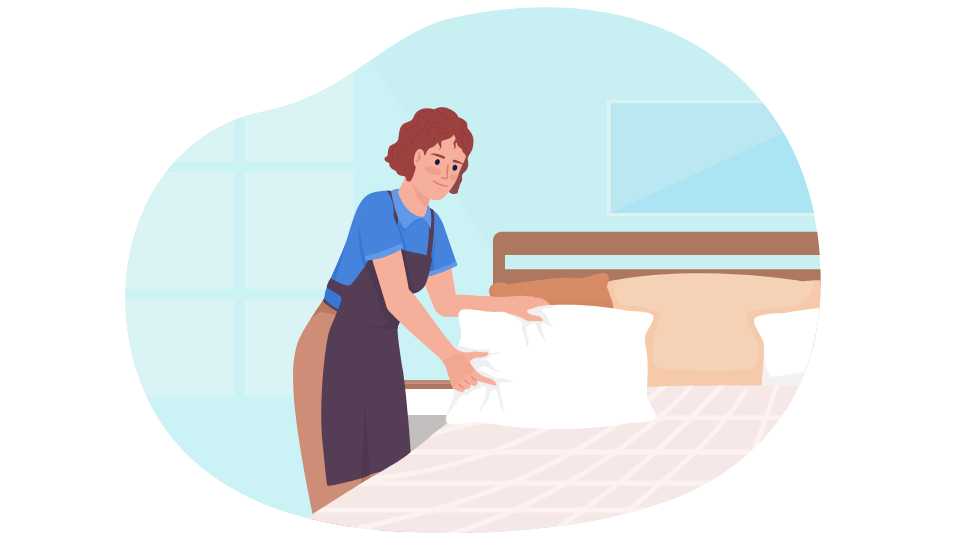
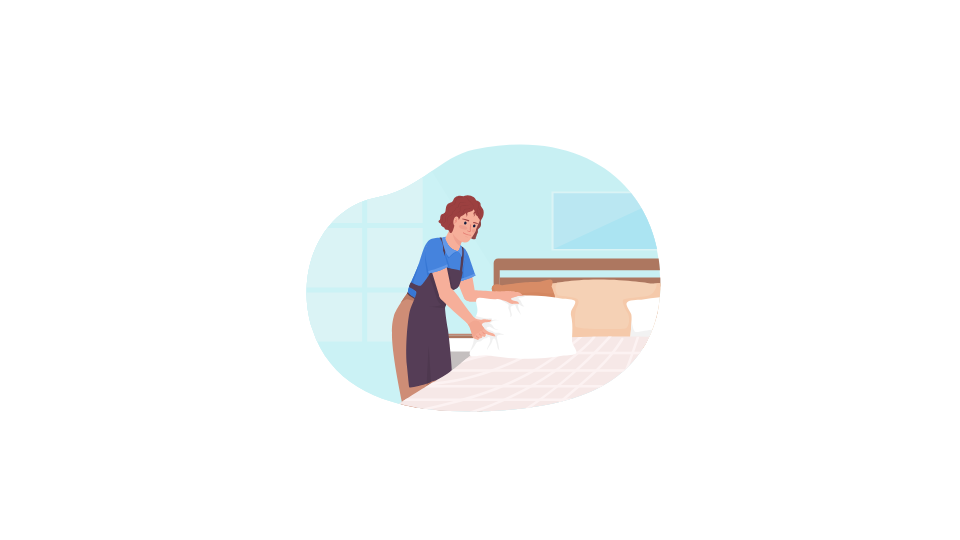
kecilin gambar

diff --git a/app/static/home.css b/app/static/home.css
@@ -1,6 +1,8 @@
 body, html {
   font-family: 'Franklin Gothic Medium', 'Arial Narrow', Arial, sans-serif;
   /* background-color: #DBAFA0; */
+  background-color: var(--bg-color);
+  color: var(--text-color);
 }
 
 @media (max-width: 576px) {
@@ -40,7 +42,7 @@ body, html {
 }
 
 .bg-lilac {
-  background-color: var(--secondary-color);
+  background-color: var(--header-color);
 }
 
 .text-center {
@@ -70,10 +72,12 @@ body, html {
 
 .card-title {
   text-align: center;
+  color: var(--header-color);
 }
 
 .card-text {
   text-align: center;
+  color: var(--text-card-color);
 }
 
 h1 {
@@ -110,13 +114,13 @@ h1 {
 }
 
 .btn-lilac {
-  background-color: var(--secondary-color);
+  background-color: var(--header-color);
 }
 
 .btn-lilac:hover {
   background-color: white;
-  color: var(--secondary-color);
-  border: 2px solid var(--secondary-color);
+  color: var(--header-color);
+  border: 2px solid var(--header-color);
 }
 
 .card-img-top {
@@ -125,7 +129,7 @@ h1 {
   height: auto;
 }
 
-label {
+/* label {
   width: 70px;
   height: 50px;
   position: relative;
@@ -178,17 +182,23 @@ label:active:after {
   transition: 0.3s;
 }
 
-input:checked + label + .background + * {
+input:checked + label + .background {
   background: #242424;
   color: white;
-}
+} */
 
 :root {
-  --primary-color: white;
-  --secondary-color: #49243E;
+  --bg-color: #f6f7f9;
+  --header-color: #52687f; 
+  /* --title-bg-color: #e0e0e0; */
+  --text-color: #000;
+  --card-color: #e3ecf1;
+  --title-card-color: #cfd3d5;
+  --text-card-color: #8e9598;
 }
 
-.dark-theme {
-  --primary-color: white;
-  --secondary-color: #49243E;
-}
+/* [data-theme="dark"] {
+  --bg-color: #2c2c2c;
+  --title-bg-color: #3a3a3a;
+  --text-color: #fff;
+} */

diff --git a/app/templates/home.html b/app/templates/home.html
@@ -14,9 +14,9 @@
         <div class="container-fluid">
           <a class="navbar-brand" href="/home">Hotel DB</a>
 
-          <input type="checkbox" id="darkmode-toggle"/>
+          <!-- <input type="checkbox" id="darkmode-toggle"/>
           <label for="darkmode-toggle"></label>
-          <div class="background"></div>
+          <div class="background"></div> -->
 
           <button class="navbar-toggler" type="button" data-bs-toggle="collapse" data-bs-target="#navbarNav" aria-controls="navbarNav" aria-expanded="false" aria-label="Toggle navigation">
             <span class="navbar-toggler-icon"></span>
